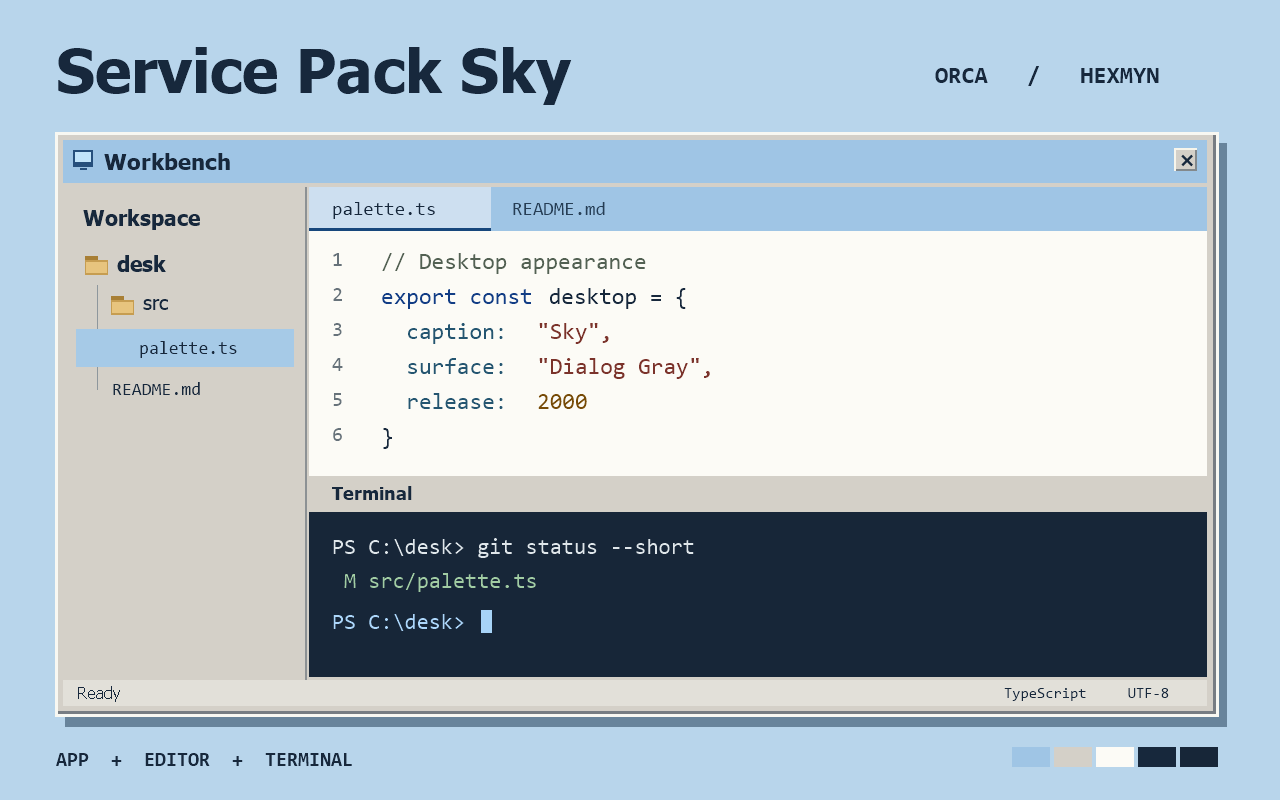
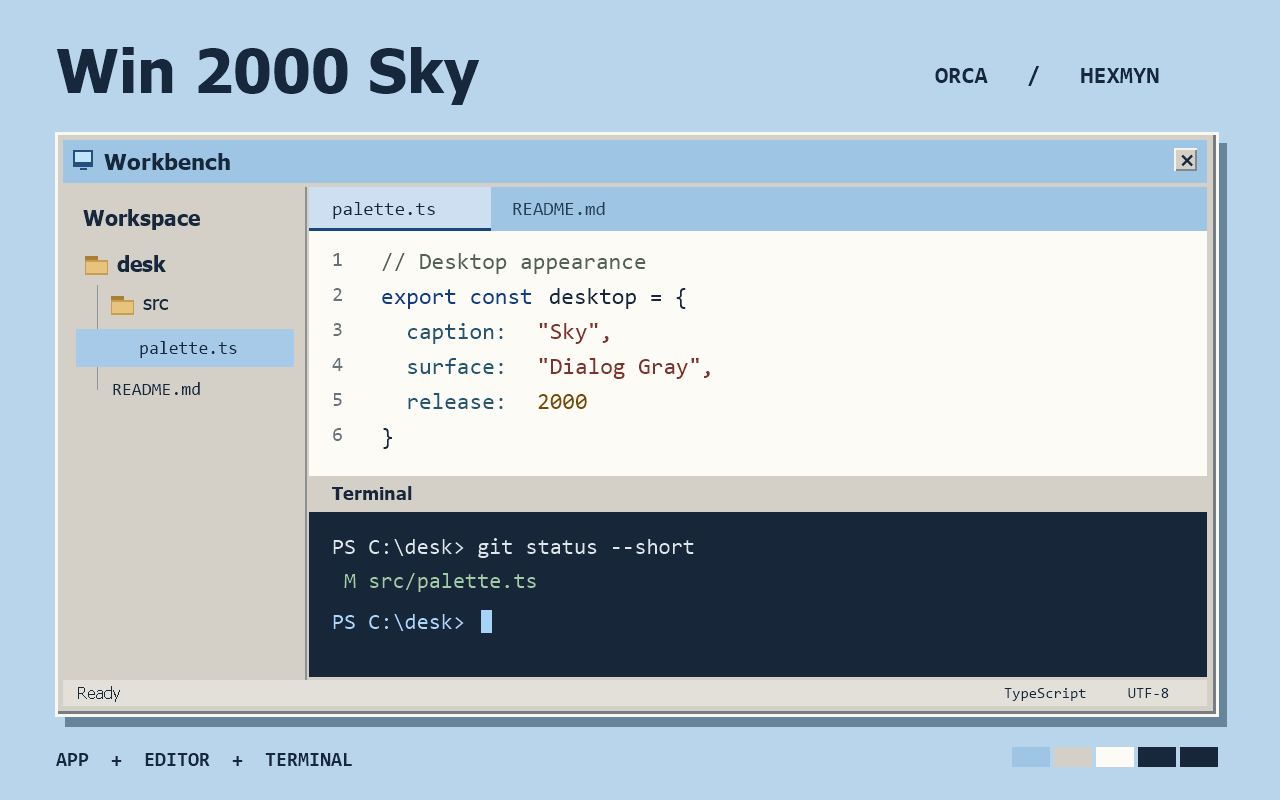
Rename theme to Win 2000 Sky and update installation URL

Changed region(s): [[0.0312, 0.0625, 0.4688, 0.125]]

diff --git a/README.md b/README.md
@@ -1,8 +1,8 @@
-# Service Pack Sky
+# Win 2000 Sky
 
 A Windows 2000-inspired theme for Orca by hexmyn. A powder-blue tab strip and warm gray panels frame an ivory editor. A separate navy terminal palette pairs cool cyan and pale green with the classic blue cursor.
 
-![Illustrated preview of Service Pack Sky](images/cover.png)
+![Illustrated preview of Win 2000 Sky](images/cover.png)
 
 The cover illustrates the palette. Window controls, fonts and geometry follow your Orca version and operating system.
 
@@ -10,7 +10,7 @@ The cover illustrates the palette. Window controls, fonts and geometry follow yo
 
 Requires Orca 1.4.262 or newer. From a checkout or extracted copy, run `orca plugin install .` in the folder containing `orca-plugin.json`.
 
-For the tagged GitHub release, run `orca plugin install hexmyn/orca-service-pack-sky@v1.0.0`. Choose **Service Pack Sky** in the light app theme picker and in **Settings → Terminal**. The two palettes can be used independently.
+For the tagged GitHub release, run `orca plugin install hexmyn/orca-win-2000-theme@v1.0.1`. Choose **Win 2000 Sky** in the light app theme picker and in **Settings → Terminal**. The two palettes can be used independently.
 
 ## Colors
 
@@ -24,6 +24,6 @@ For the tagged GitHub release, run `orca plugin install hexmyn/orca-service-pack
 
 ## 한국어
 
-하늘색 탭과 따뜻한 회색 패널로 Windows 2000의 색감을 옮겼습니다. 앱 설정에서 밝은 테마로 **Service Pack Sky**를 선택하세요. 터미널에도 적용하려면 터미널 테마 목록에서 같은 이름을 선택하세요.
+하늘색 탭과 따뜻한 회색 패널로 Windows 2000의 색감을 옮겼습니다. 앱 설정에서 밝은 테마로 **Win 2000 Sky**를 선택하세요. 터미널에도 적용하려면 터미널 테마 목록에서 같은 이름을 선택하세요.
 
 MIT © 2026 hexmyn. An independent community theme.
